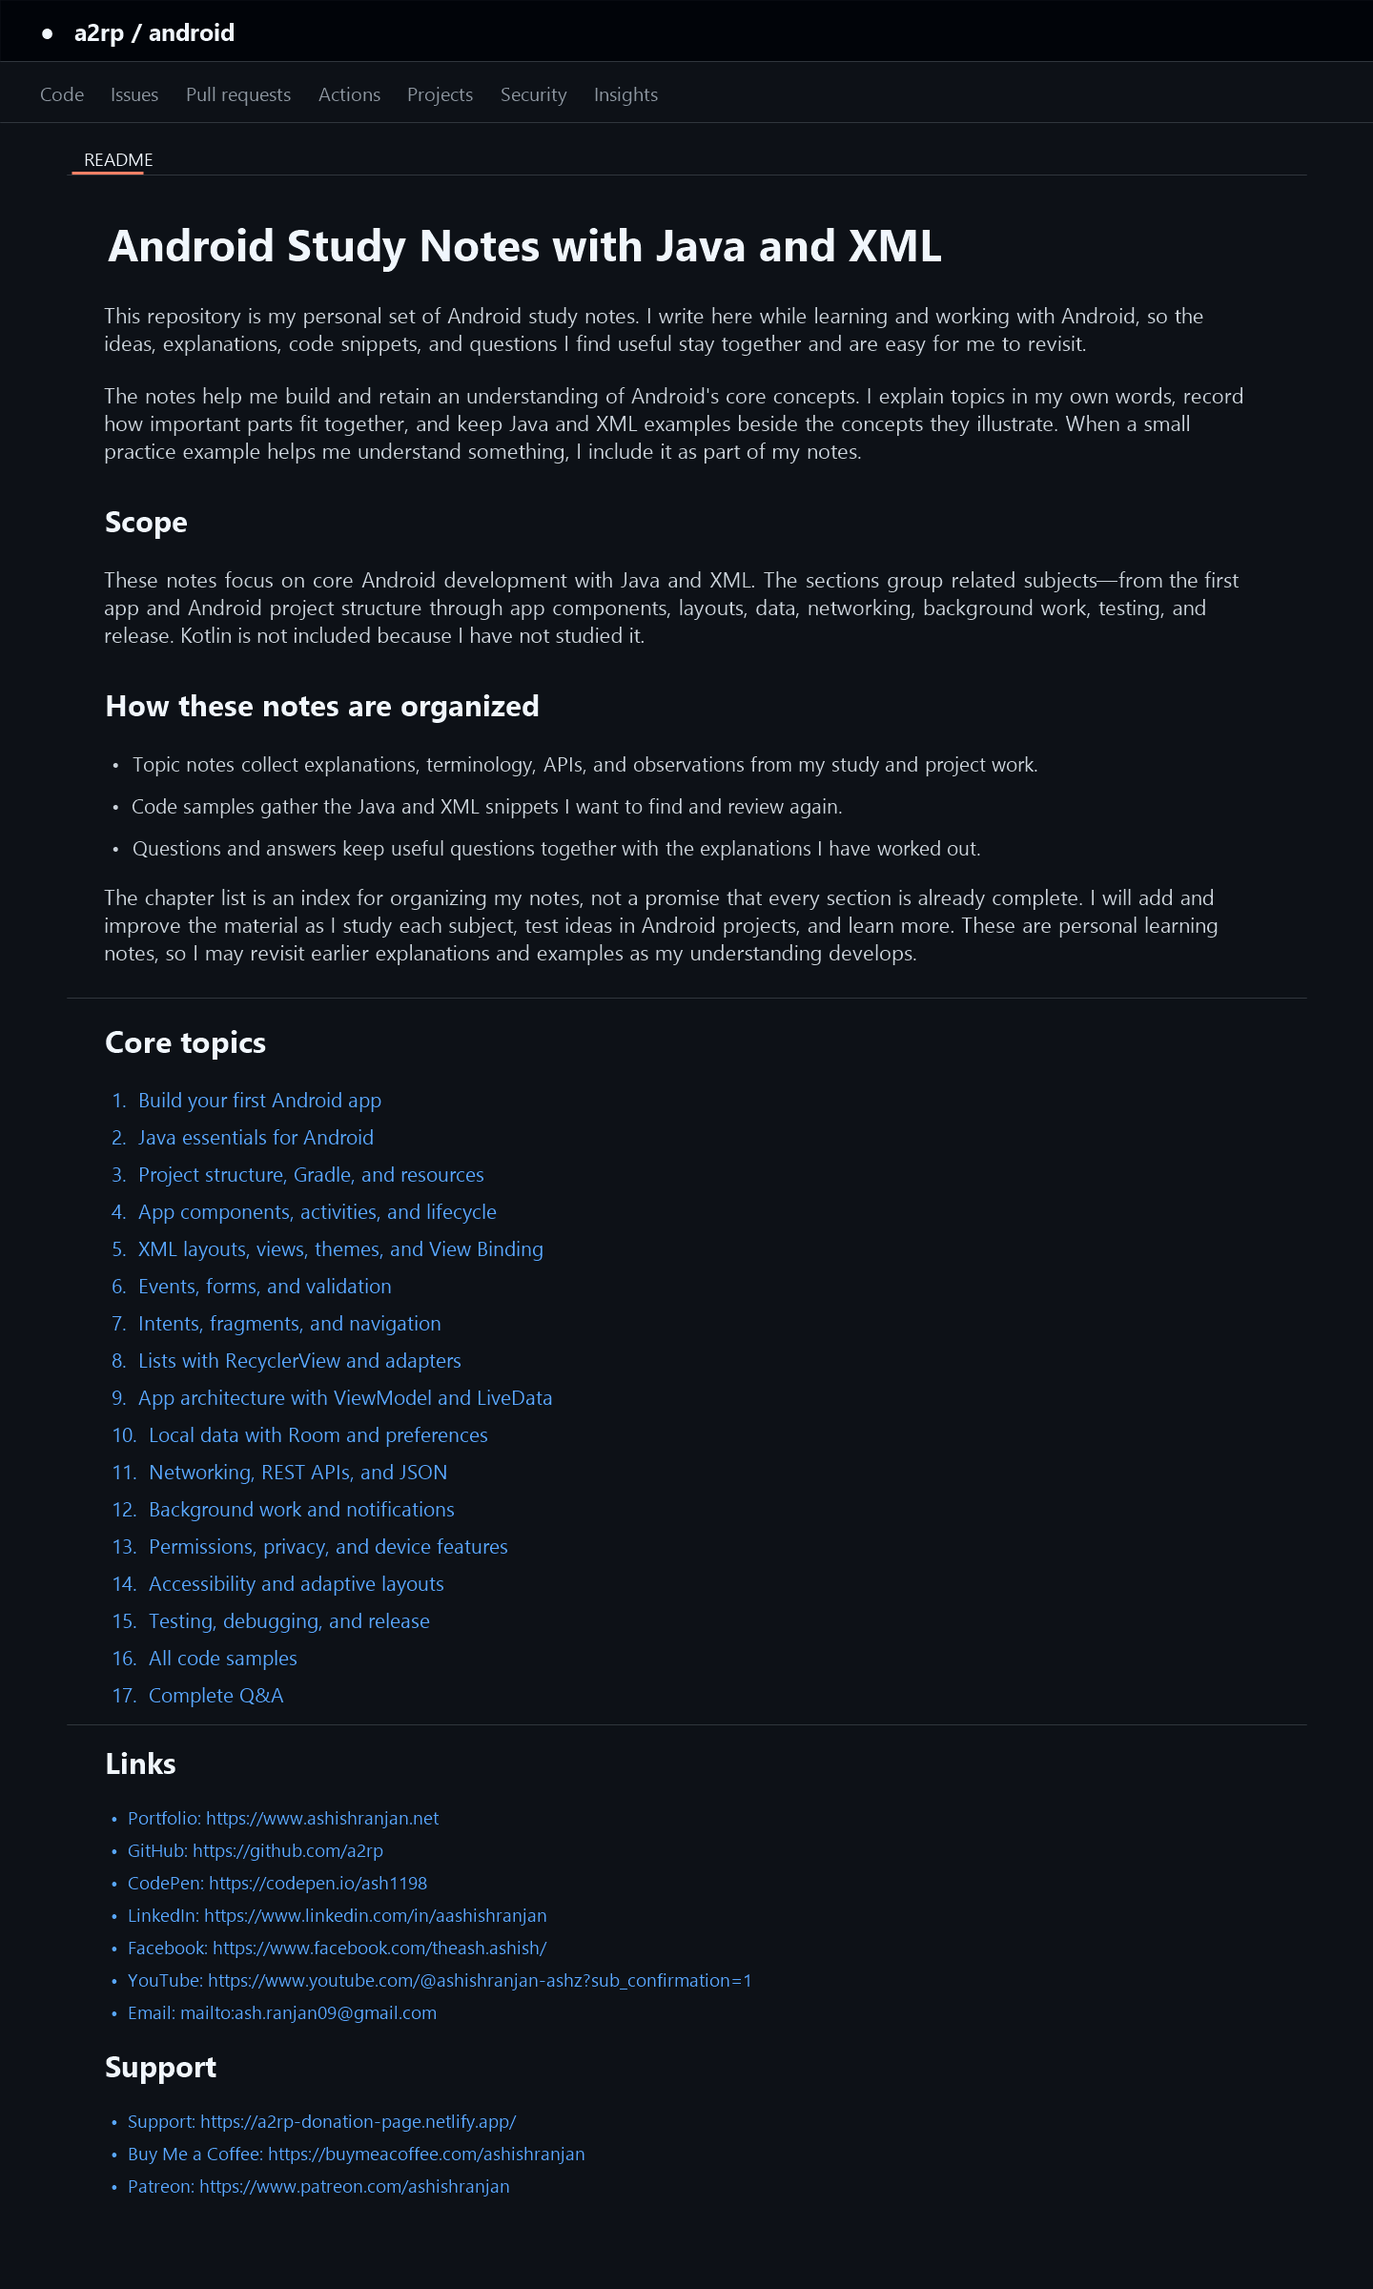
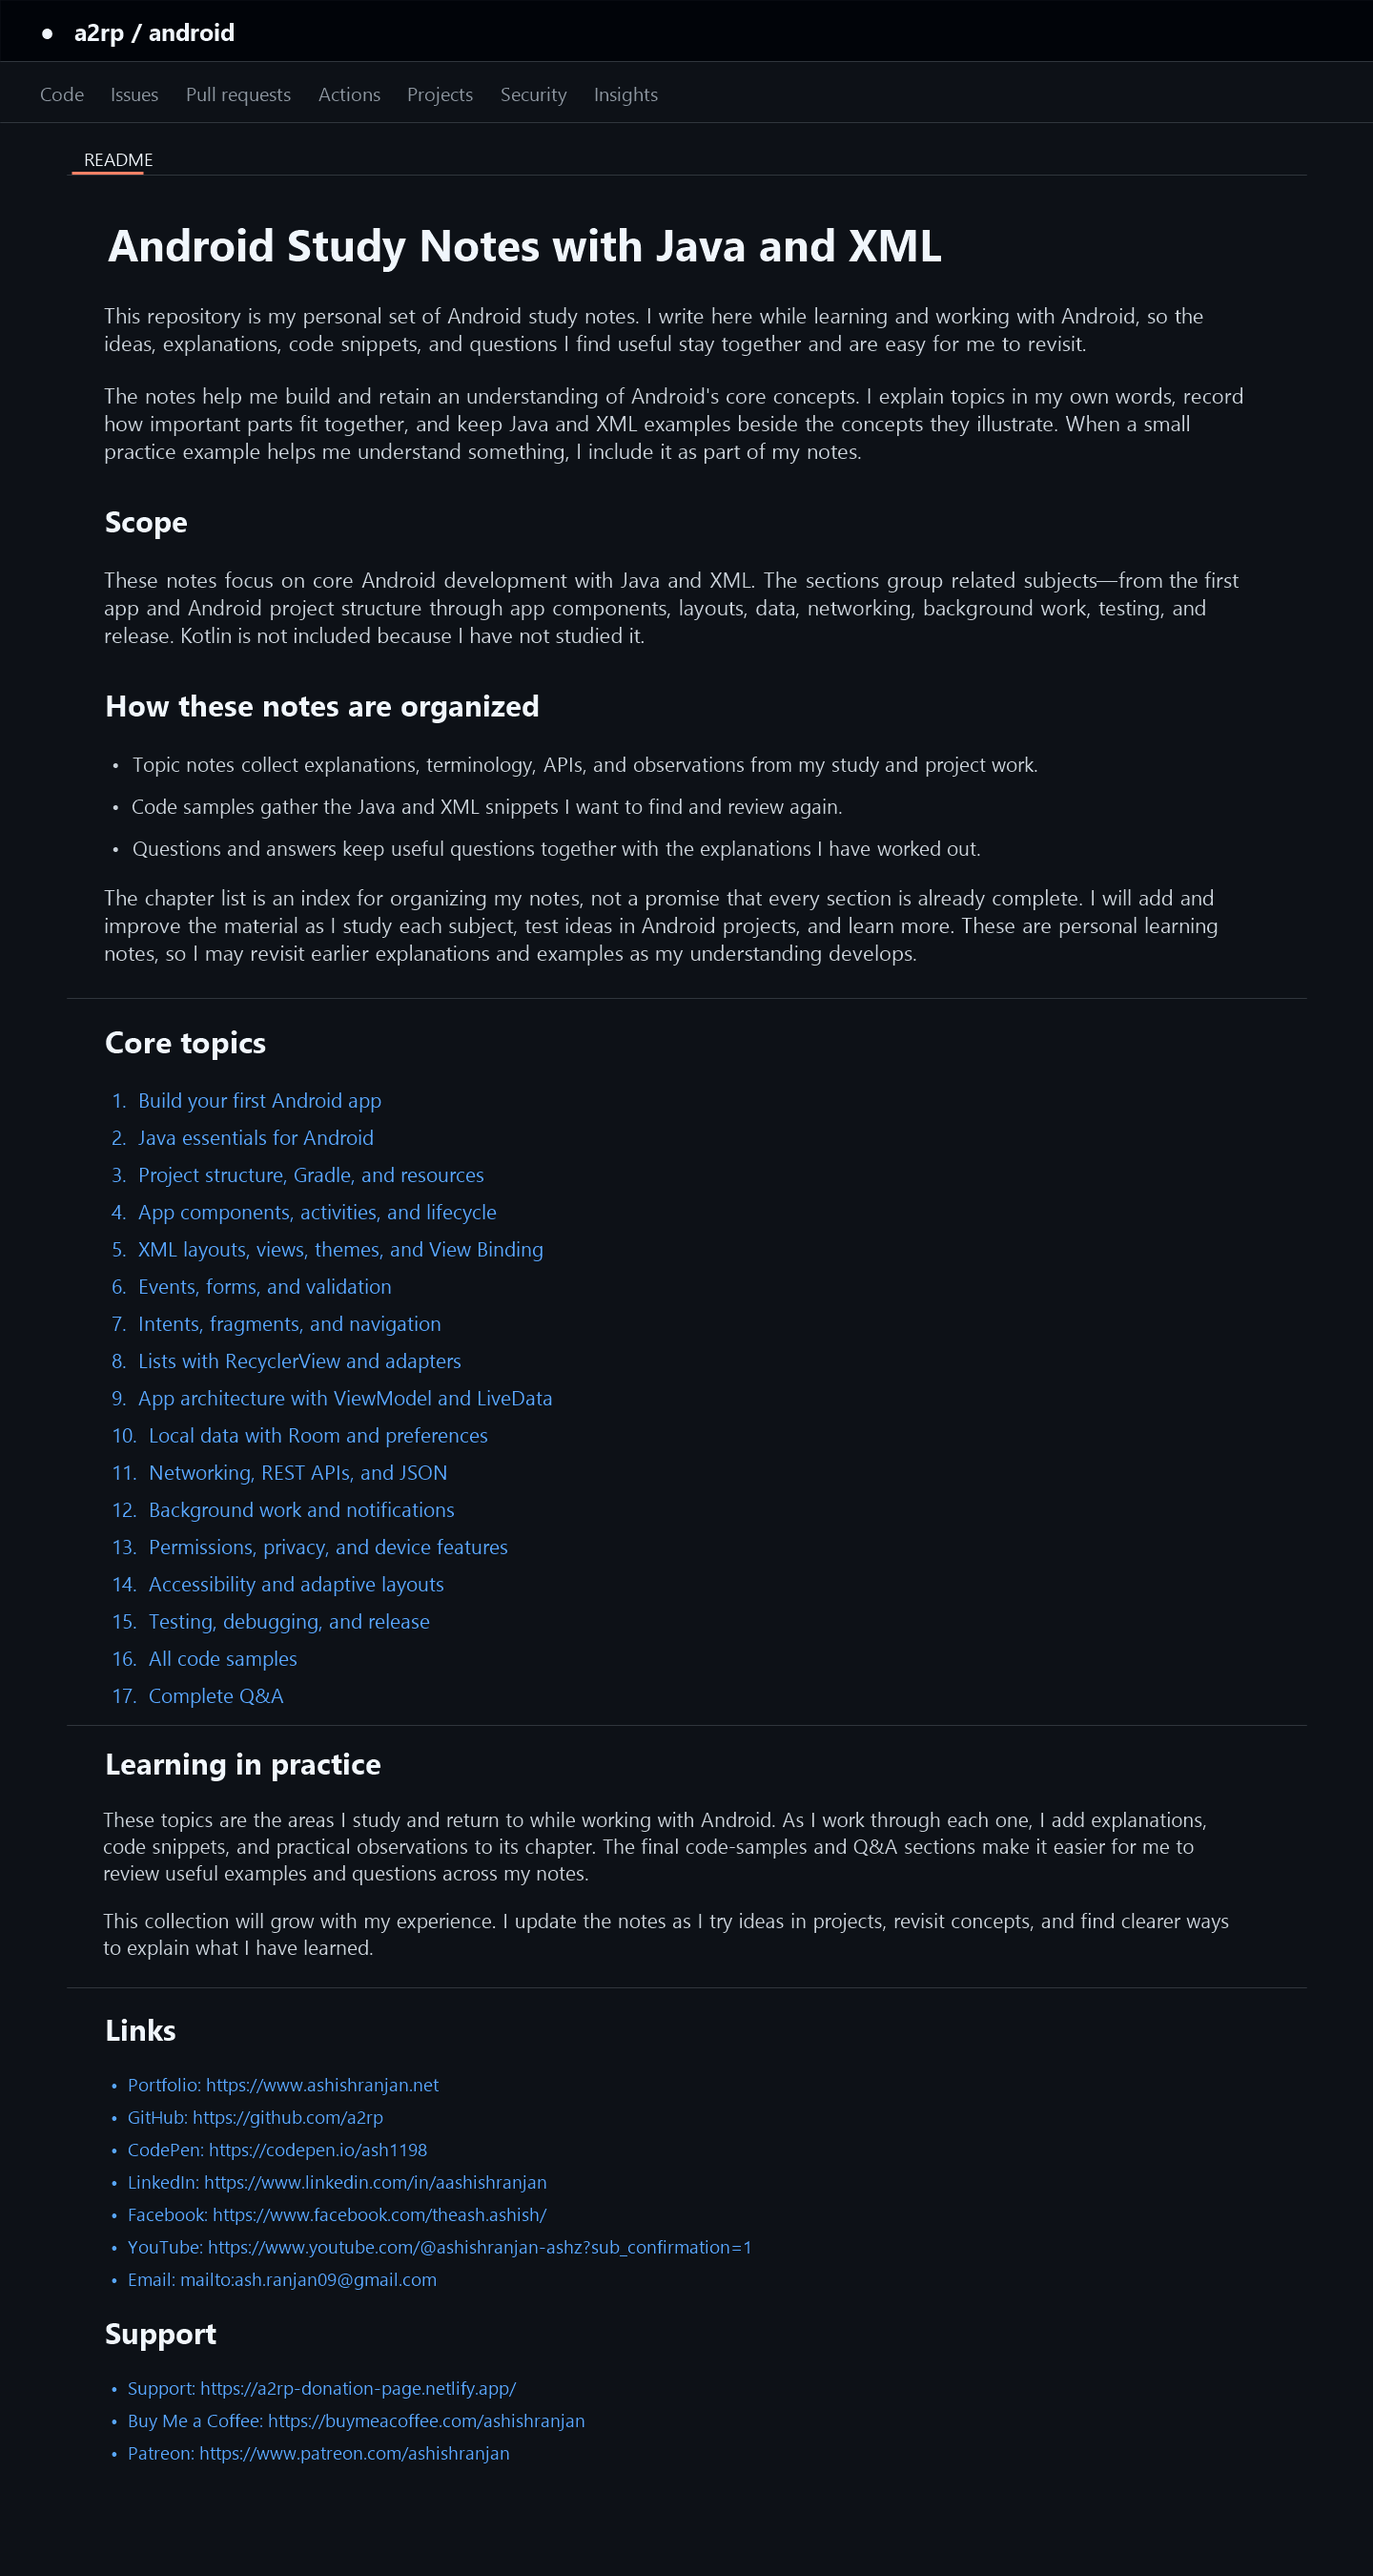
docs: add study notes overview section

diff --git a/README.md b/README.md
@@ -36,6 +36,12 @@ The chapter list is an index for organizing my notes, not a promise that every s
 16. [All code samples](chapters/98-all-code-samples.md)
 17. [Complete Q&A](chapters/99-complete-q-and-a.md)
 
+## Learning in practice
+
+These topics are the areas I study and return to while working with Android. As I work through each one, I add explanations, code snippets, and practical observations to its chapter. The final code-samples and Q&A sections make it easier for me to review useful examples and questions across my notes.
+
+This collection will grow with my experience. I update the notes as I try ideas in projects, revisit concepts, and find clearer ways to explain what I have learned.
+
 ## Links
 
 - Portfolio: https://www.ashishranjan.net
